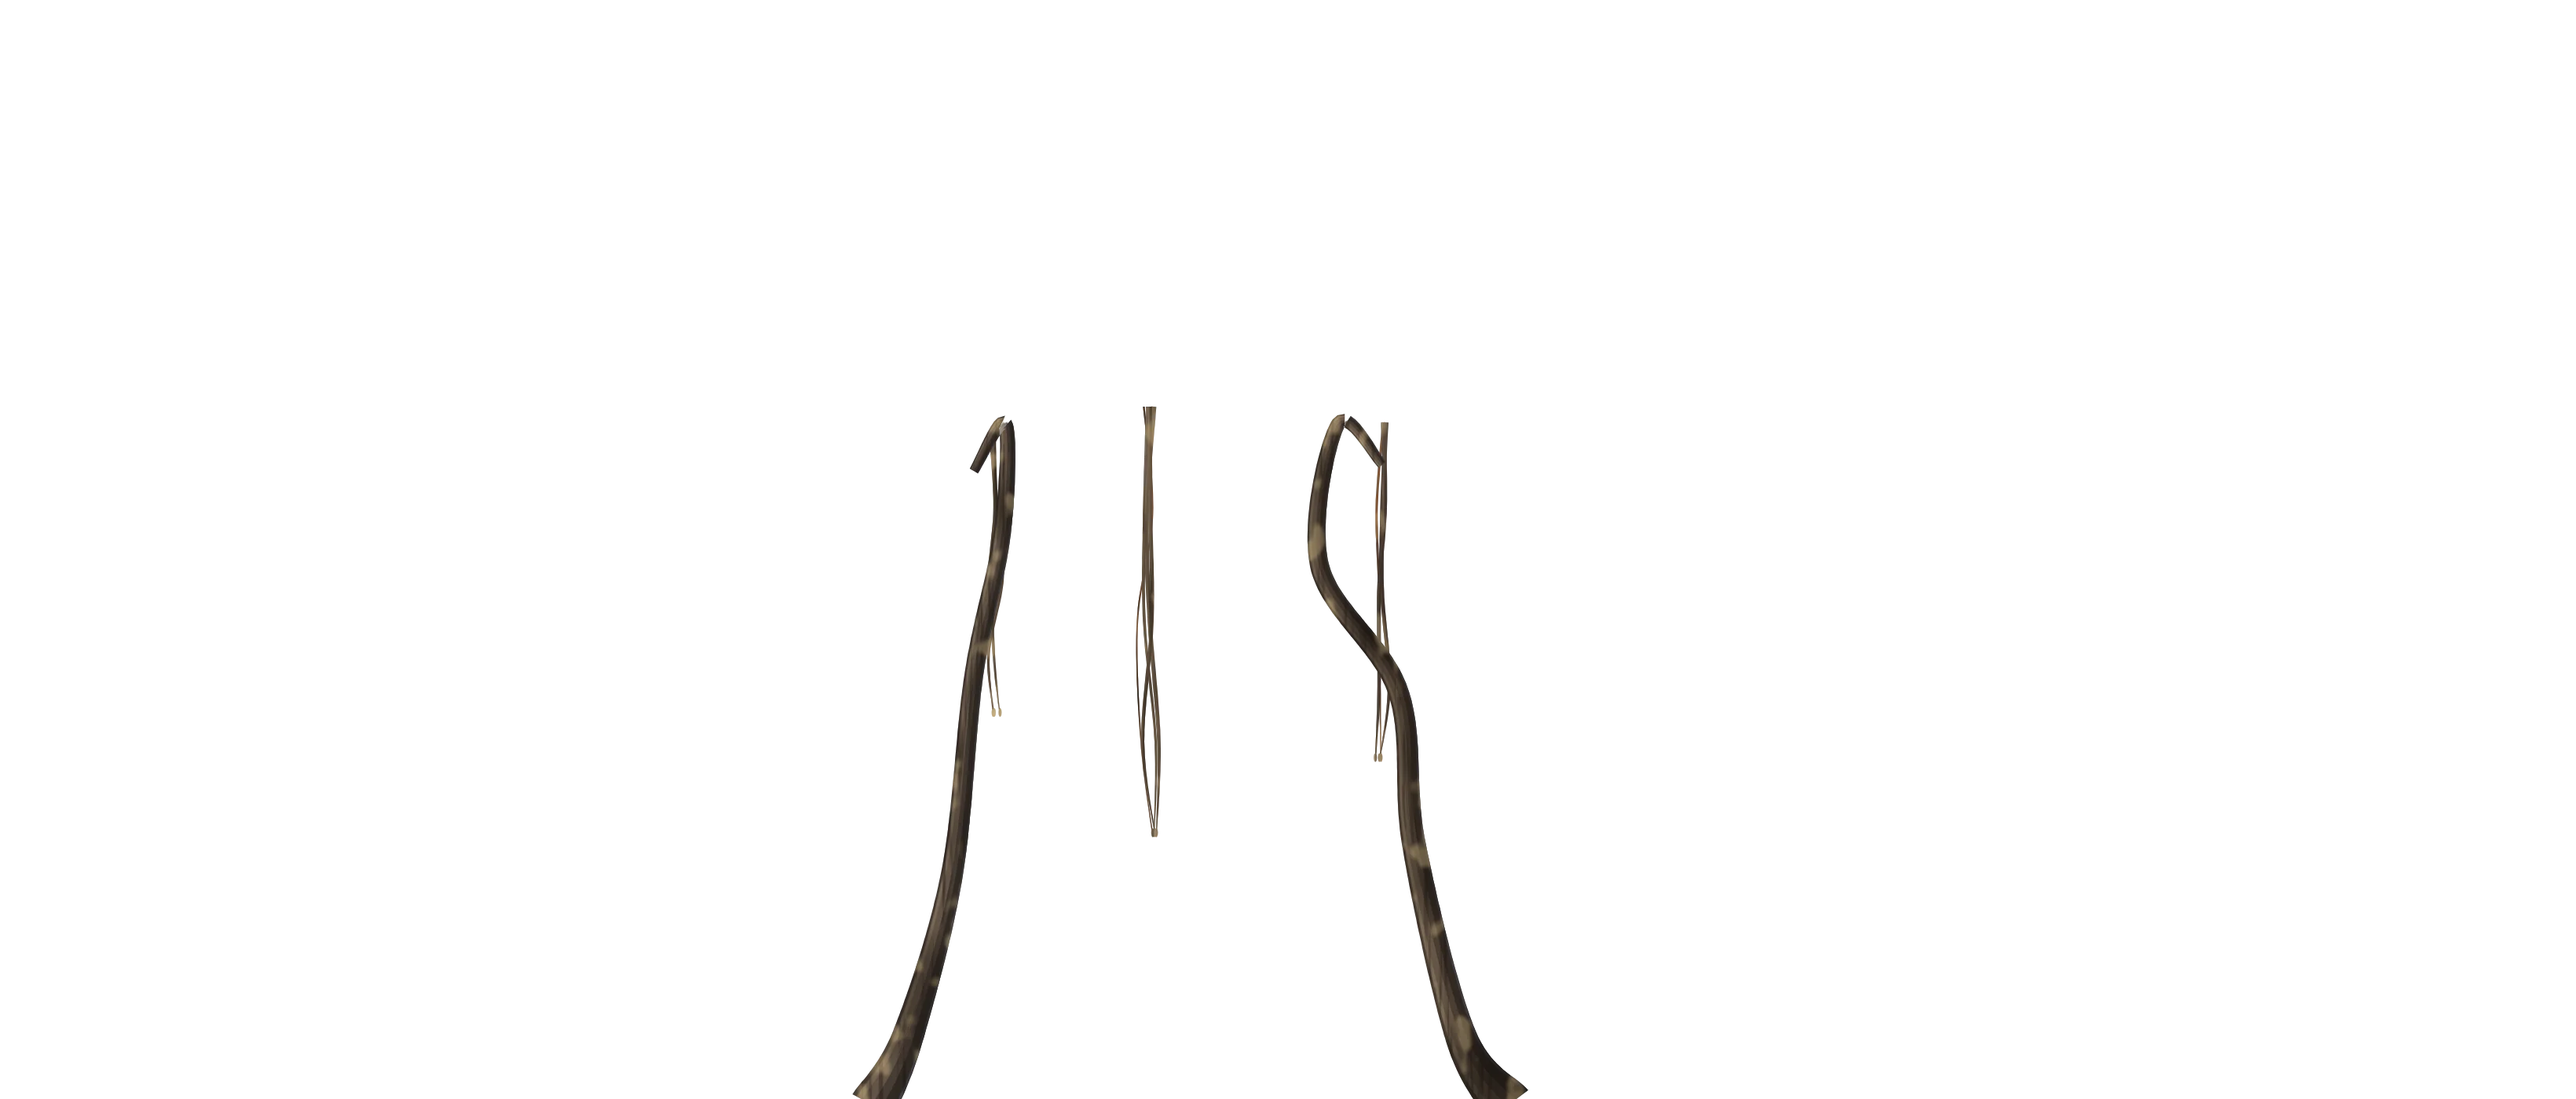
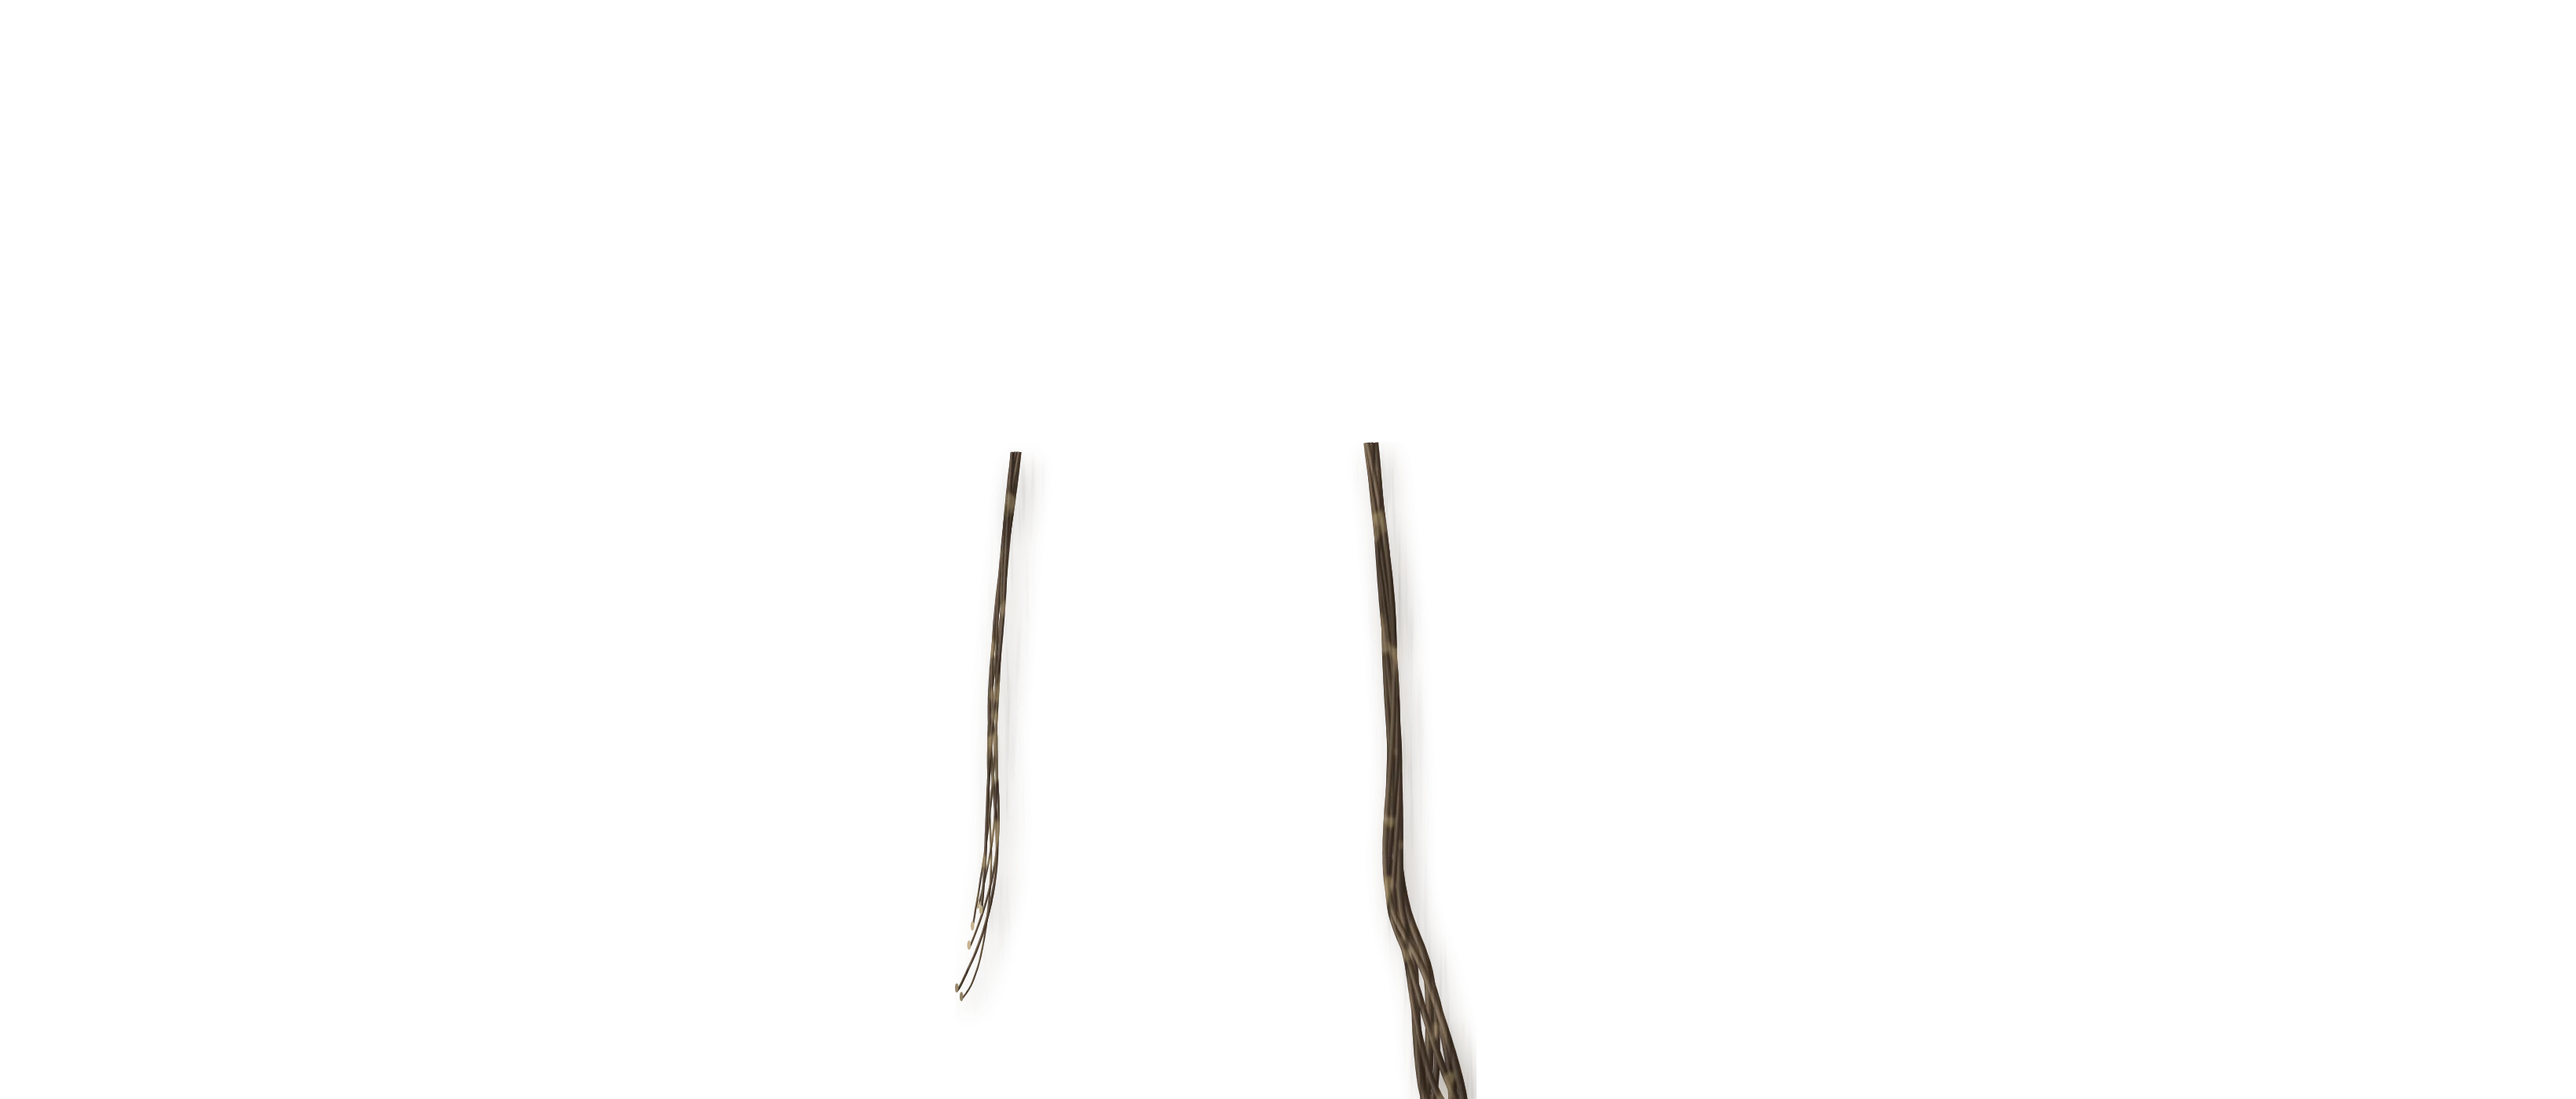
Banian : racines devant la carte en cordons torsadés le long des bords
Claude-Session: https://claude.ai/code/session_01Nt8rFWjdj5spwPEUakjUMS

Changed region(s): [[0.4976, 0.3686, 0.5909, 1.0], [0.311, 0.3686, 0.4043, 1.0], [0.4354, 0.3686, 0.4665, 0.7371]]

diff --git a/index.html b/index.html
@@ -75,8 +75,8 @@ else if(a.matches('.pol-carte'))n='carte-ouverte';else if(h.indexOf('courbe/')==
         <a class="btn btn-blanc" href="#devis">Demander un devis</a>
         <a class="btn btn-contour" href="introduction.html">Essayer gratuitement <span class="btn-sous">· 10 min</span></a>
       </div>
-      <img class="banian banian-arriere" src="banian-arriere.webp?v=8" alt="" width="1640" height="700" aria-hidden="true" decoding="async">
-      <img class="banian banian-avant" src="banian-avant.webp?v=8" alt="" width="1640" height="700" aria-hidden="true" decoding="async">
+      <img class="banian banian-arriere" src="banian-arriere.webp?v=10" alt="" width="1640" height="700" aria-hidden="true" decoding="async">
+      <img class="banian banian-avant" src="banian-avant.webp?v=10" alt="" width="1640" height="700" aria-hidden="true" decoding="async">
       <figure class="polaroid" id="polaroid">
         <svg class="pol-racines" viewBox="-46 -6 262 278" preserveAspectRatio="none" aria-hidden="true"><g fill="none" stroke="#A07E60" stroke-linecap="round" stroke-linejoin="round"><path d="M6.0 135.6 L2.1 134.8 L-1.9 134.3 L-5.9 133.8 L-9.8 133.0 L-13.7 132.3 L-17.7 131.6 L-21.6 130.8 L-25.5 130.1 L-29.4 129.1 L-33.2 128.0 L-37.1 126.8" stroke-width="0.70"/><path d="M6.0 135.6 L2.1 134.8 L-1.9 134.3 L-5.9 133.8 L-9.8 133.0 L-13.7 132.3 L-17.7 131.6" stroke-width="1.56"/><path d="M6.0 135.6 L2.1 134.8 L-1.9 134.3 L-5.9 133.8" stroke-width="1.94"/><path d="M-5.9 133.8 L-8.4 130.7 L-10.9 127.5 L-13.2 124.3 L-15.3 120.9" stroke-width="0.70"/><path d="M-5.9 133.8 L-8.4 130.7 L-10.9 127.5" stroke-width="0.64"/><path d="M-5.9 133.8 L-8.4 130.7" stroke-width="0.80"/><path d="M-5.9 133.8 L-9.8 134.7 L-13.7 135.1 L-17.7 135.6 L-21.7 136.2 L-25.6 136.9 L-29.6 137.4" stroke-width="0.70"/><path d="M-5.9 133.8 L-9.8 134.7 L-13.7 135.1 L-17.7 135.6" stroke-width="0.64"/><path d="M-5.9 133.8 L-9.8 134.7" stroke-width="0.80"/><path d="M-9.8 134.7 L-13.4 133.0 L-17.2 131.8" stroke-width="0.70"/><path d="M-9.8 134.7 L-13.4 133.0" stroke-width="0.30"/><path d="M-9.8 134.7 L-13.4 133.0" stroke-width="0.38"/><path d="M-5.9 133.8 L-9.7 135.0 L-13.5 136.0 L-17.4 137.2 L-21.0 138.8 L-24.5 140.7" stroke-width="0.70"/><path d="M-5.9 133.8 L-9.7 135.0 L-13.5 136.0" stroke-width="0.64"/><path d="M-5.9 133.8 L-9.7 135.0" stroke-width="0.80"/><path d="M-9.7 135.0 L-13.7 135.1" stroke-width="0.70"/><path d="M-9.7 135.0 L-13.7 135.1" stroke-width="0.30"/><path d="M-9.7 135.0 L-13.7 135.1" stroke-width="0.37"/><path d="M6.0 169.5 L2.1 168.6 L-1.8 167.9 L-5.8 167.4 L-9.8 167.0 L-13.8 167.3 L-17.7 168.0 L-21.5 169.1 L-25.3 170.5 L-28.9 172.3 L-32.4 174.2" stroke-width="0.70"/><path d="M6.0 169.5 L2.1 168.6 L-1.8 167.9 L-5.8 167.4 L-9.8 167.0 L-13.8 167.3 L-17.7 168.0" stroke-width="1.39"/><path d="M6.0 169.5 L2.1 168.6 L-1.8 167.9 L-5.8 167.4" stroke-width="1.72"/><path d="M-17.7 168.0 L-21.6 166.9 L-25.4 165.7 L-29.1 164.2 L-32.6 162.3 L-36.0 160.2" stroke-width="0.70"/><path d="M-17.7 168.0 L-21.6 166.9 L-25.4 165.7" stroke-width="0.35"/><path d="M-17.7 168.0 L-21.6 166.9" stroke-width="0.43"/><path d="M6.0 203.4 L2.0 202.9 L-1.9 202.5 L-5.9 202.2 L-9.9 201.9 L-13.9 201.7 L-17.9 201.5 L-21.9 201.2 L-25.9 201.1 L-29.9 200.8 L-33.8 200.1 L-37.8 199.3 L-41.6 198.2" stroke-width="0.70"/><path d="M6.0 203.4 L2.0 202.9 L-1.9 202.5 L-5.9 202.2 L-9.9 201.9 L-13.9 201.7 L-17.9 201.5 L-21.9 201.2" stroke-width="1.35"/><path d="M6.0 203.4 L2.0 202.9 L-1.9 202.5 L-5.9 202.2" stroke-width="1.68"/><path d="M-9.9 201.9 L-11.9 198.4 L-13.8 194.9 L-15.4 191.3 L-16.8 187.5 L-18.0 183.7" stroke-width="0.70"/><path d="M-9.9 201.9 L-11.9 198.4 L-13.8 194.9" stroke-width="0.52"/><path d="M-9.9 201.9 L-11.9 198.4" stroke-width="0.64"/><path d="M-11.9 198.4 L-15.1 196.1" stroke-width="0.70"/><path d="M-11.9 198.4 L-15.1 196.1" stroke-width="0.24"/><path d="M-11.9 198.4 L-15.1 196.1" stroke-width="0.29"/><path d="M-11.9 198.4 L-14.8 195.7" stroke-width="0.70"/><path d="M-11.9 198.4 L-14.8 195.7" stroke-width="0.24"/><path d="M-11.9 198.4 L-14.8 195.7" stroke-width="0.29"/><path d="M-11.9 198.4 L-15.7 197.1 L-19.4 195.6" stroke-width="0.70"/><path d="M-11.9 198.4 L-15.7 197.1" stroke-width="0.24"/><path d="M-11.9 198.4 L-15.7 197.1" stroke-width="0.29"/><path d="M-21.9 201.2 L-25.0 203.7 L-27.7 206.7 L-30.2 209.8 L-32.4 213.2" stroke-width="0.70"/><path d="M-21.9 201.2 L-25.0 203.7 L-27.7 206.7" stroke-width="0.34"/><path d="M-21.9 201.2 L-25.0 203.7" stroke-width="0.43"/><path d="M164.0 126.6 L168.0 127.1 L171.8 128.3 L175.4 130.0 L178.5 132.5 L181.0 135.7 L182.6 139.3 L183.9 143.1 L185.3 146.9 L186.3 150.7" stroke-width="0.70"/><path d="M164.0 126.6 L168.0 127.1 L171.8 128.3 L175.4 130.0 L178.5 132.5 L181.0 135.7" stroke-width="1.33"/><path d="M164.0 126.6 L168.0 127.1 L171.8 128.3" stroke-width="1.66"/><path d="M178.5 132.5 L177.3 136.3 L176.4 140.2 L175.7 144.2 L175.1 148.1" stroke-width="0.70"/><path d="M178.5 132.5 L177.3 136.3 L176.4 140.2" stroke-width="0.44"/><path d="M178.5 132.5 L177.3 136.3" stroke-width="0.55"/><path d="M175.4 130.0 L175.0 134.0 L174.6 138.0 L174.1 141.9" stroke-width="0.70"/><path d="M175.4 130.0 L175.0 134.0" stroke-width="0.51"/><path d="M175.4 130.0 L175.0 134.0" stroke-width="0.64"/><path d="M164.0 162.7 L168.0 162.5 L172.0 162.6 L176.0 162.6 L180.0 162.8 L183.9 163.4 L187.8 164.3 L191.6 165.6 L195.3 167.1 L198.7 169.3" stroke-width="0.70"/><path d="M164.0 162.7 L168.0 162.5 L172.0 162.6 L176.0 162.6 L180.0 162.8 L183.9 163.4" stroke-width="1.22"/><path d="M164.0 162.7 L168.0 162.5 L172.0 162.6" stroke-width="1.52"/><path d="M176.0 162.6 L180.0 162.6 L184.0 162.3 L188.0 161.9" stroke-width="0.70"/><path d="M176.0 162.6 L180.0 162.6" stroke-width="0.47"/><path d="M176.0 162.6 L180.0 162.6" stroke-width="0.58"/><path d="M180.0 162.8 L183.9 162.0 L187.8 161.4" stroke-width="0.70"/><path d="M180.0 162.8 L183.9 162.0" stroke-width="0.40"/><path d="M180.0 162.8 L183.9 162.0" stroke-width="0.50"/><path d="M164.0 198.9 L167.8 200.0 L171.7 201.0 L175.6 202.1 L179.4 203.3 L183.1 204.8 L186.7 206.4 L190.3 208.3 L193.5 210.6 L196.4 213.4" stroke-width="0.70"/><path d="M164.0 198.9 L167.8 200.0 L171.7 201.0 L175.6 202.1 L179.4 203.3 L183.1 204.8" stroke-width="1.46"/><path d="M164.0 198.9 L167.8 200.0 L171.7 201.0" stroke-width="1.82"/><path d="M186.7 206.4 L186.8 210.4 L187.3 214.4 L187.8 218.3" stroke-width="0.70"/><path d="M186.7 206.4 L186.8 210.4" stroke-width="0.32"/><path d="M186.7 206.4 L186.8 210.4" stroke-width="0.40"/><path d="M30.6 220.0 L31.9 223.8 L33.1 227.6 L34.7 231.3 L36.4 234.9 L38.1 238.5 L40.0 242.0 L42.4 245.3" stroke-width="0.70"/><path d="M30.6 220.0 L31.9 223.8 L33.1 227.6 L34.7 231.3 L36.4 234.9" stroke-width="1.25"/><path d="M30.6 220.0 L31.9 223.8 L33.1 227.6" stroke-width="1.55"/><path d="M36.4 234.9 L40.4 235.2 L44.3 235.7 L48.2 236.8" stroke-width="0.70"/><path d="M36.4 234.9 L40.4 235.2" stroke-width="0.34"/><path d="M36.4 234.9 L40.4 235.2" stroke-width="0.43"/><path d="M38.1 238.5 L42.0 239.3 L45.9 240.3 L49.7 241.4" stroke-width="0.70"/><path d="M38.1 238.5 L42.0 239.3" stroke-width="0.26"/><path d="M38.1 238.5 L42.0 239.3" stroke-width="0.32"/><path d="M71.4 220.0 L72.3 223.9 L73.0 227.8 L73.5 231.8 L73.5 235.8 L72.7 239.7 L71.3 243.5 L69.5 247.1 L67.6 250.6" stroke-width="0.70"/><path d="M71.4 220.0 L72.3 223.9 L73.0 227.8 L73.5 231.8 L73.5 235.8" stroke-width="1.34"/><path d="M71.4 220.0 L72.3 223.9 L73.0 227.8" stroke-width="1.66"/><path d="M73.5 231.8 L69.7 233.0 L66.1 234.7 L62.8 237.0 L60.1 239.9" stroke-width="0.70"/><path d="M73.5 231.8 L69.7 233.0 L66.1 234.7" stroke-width="0.49"/><path d="M73.5 231.8 L69.7 233.0" stroke-width="0.61"/><path d="M107.1 220.0 L107.5 224.0 L107.5 228.0 L107.5 232.0 L107.3 236.0 L107.2 240.0 L107.4 244.0 L107.8 247.9 L108.2 251.9" stroke-width="0.70"/><path d="M107.1 220.0 L107.5 224.0 L107.5 228.0 L107.5 232.0 L107.3 236.0" stroke-width="1.22"/><path d="M107.1 220.0 L107.5 224.0 L107.5 228.0" stroke-width="1.51"/><path d="M107.2 240.0 L104.4 242.9 L101.5 245.6 L98.5 248.2" stroke-width="0.70"/><path d="M107.2 240.0 L104.4 242.9" stroke-width="0.30"/><path d="M107.2 240.0 L104.4 242.9" stroke-width="0.37"/><path d="M144.5 220.0 L144.6 224.0 L144.6 228.0 L144.4 232.0 L144.4 236.0 L144.7 240.0 L145.0 244.0 L145.4 247.9 L145.7 251.9" stroke-width="0.70"/><path d="M144.5 220.0 L144.6 224.0 L144.6 228.0 L144.4 232.0 L144.4 236.0" stroke-width="1.35"/><path d="M144.5 220.0 L144.6 224.0 L144.6 228.0" stroke-width="1.68"/><path d="M144.4 232.0 L142.9 235.7 L142.0 239.6 L141.1 243.5" stroke-width="0.70"/><path d="M144.4 232.0 L142.9 235.7" stroke-width="0.50"/><path d="M144.4 232.0 L142.9 235.7" stroke-width="0.62"/></g></svg>
         <button type="button" class="pol-carte" aria-label="Paul.M — Paul Moreaux, fondateur de Frenglais : agrandir">
